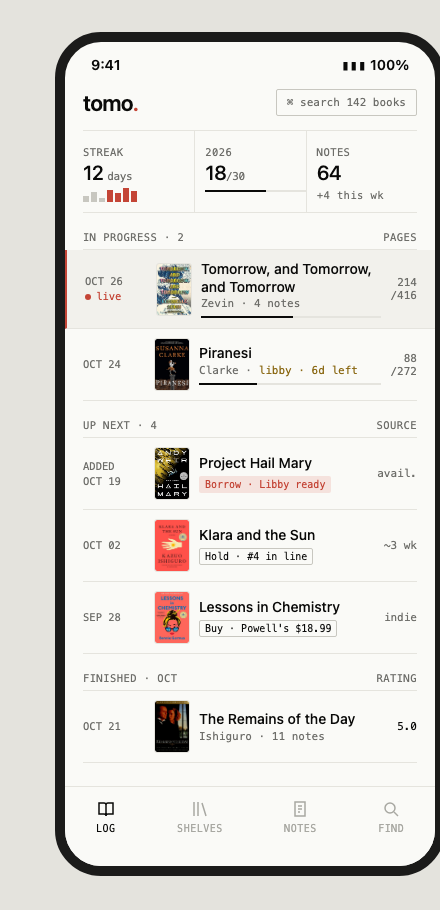
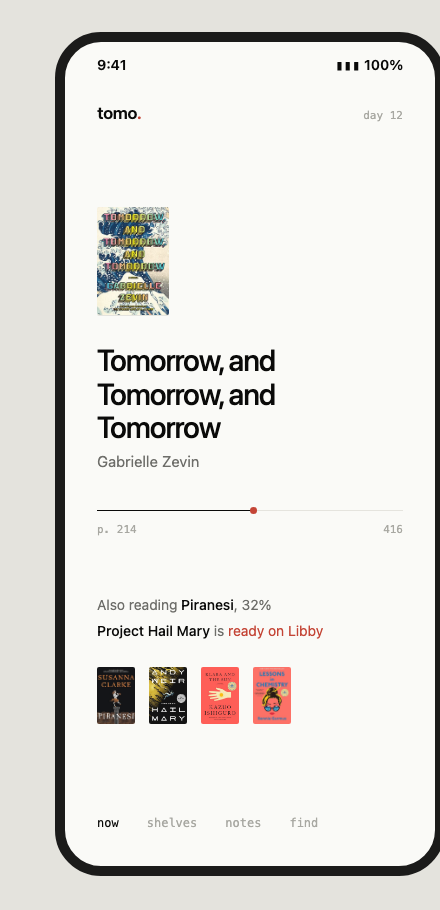
Make mockup 2 more minimal and distinct from 1
Single-focus layout: one current book in large type, a hairline progress
line, one sentence for the rest, text-only tabs. Drops the stats strip,
section headers, ledger rows and tags it shared with mockup 1.

diff --git a/.codeyam/design/project_mockups/02-minimalistic-mockup.html b/.codeyam/design/project_mockups/02-minimalistic-mockup.html
@@ -1,44 +1,32 @@
 <!doctype html>
 <html lang="en"><head><meta charset="utf-8"><meta name="viewport" content="width=device-width,initial-scale=1">
-<title>Tomo · Logbook direction</title>
+<title>Tomo · Quiet direction</title>
 <style>
-:root{--bg:#FAFAF7;--bg-elev:#F2F1EC;--bg-sunk:#EEEDE7;--ink:#0A0A09;--muted:#6E6E6A;--faint:#A8A8A2;--line:#E5E4DE;--line-strong:#C8C7C0;--accent:#C44536;--accent-soft:#F5E2DD;--go:#4A6B3A;--wait:#8B6914;
+:root{--bg:#FAFAF7;--bg-elev:#F2F1EC;--ink:#0A0A09;--muted:#6E6E6A;--faint:#A8A8A2;--line:#E5E4DE;--accent:#C44536;
 --sans:'Inter',-apple-system,system-ui,sans-serif;--mono:'JetBrains Mono',ui-monospace,'SF Mono',Menlo,monospace}
 *{box-sizing:border-box;margin:0;padding:0}
 body{background:#e4e3dd;font-family:var(--sans);color:var(--ink);display:flex;justify-content:center;padding:32px 16px}
 .phone{width:390px;height:844px;background:var(--bg);border-radius:46px;border:10px solid #1b1b1a;overflow:hidden;position:relative}
-.screen{padding:0 18px}
-.status{display:flex;justify-content:space-between;font:600 14px var(--sans);padding:14px 8px 8px}
-.top{display:flex;justify-content:space-between;align-items:center;padding:8px 0 14px}
-.top h1{font:600 22px var(--sans);letter-spacing:-.02em}
-.mono{font-family:var(--mono)}
-.lbl{font:400 10.5px var(--mono);color:var(--muted);letter-spacing:.04em;text-transform:uppercase}
-.search{border:1px solid var(--line-strong);border-radius:2px;padding:6px 10px;font:400 11px var(--mono);color:var(--muted)}
-.stats{display:grid;grid-template-columns:repeat(3,1fr);border-top:1px solid var(--line);border-bottom:1px solid var(--line)}
-.stats>div{padding:10px 0 10px 10px;border-left:1px solid var(--line)}
-.stats>div:first-child{border-left:0;padding-left:0}
-.stats b{display:block;font:500 20px var(--sans);letter-spacing:-.02em;margin-top:2px}
-.stats b span{font:400 11px var(--mono);color:var(--muted)}
-.spark{display:flex;gap:2px;align-items:flex-end;height:14px;margin-top:4px}
-.spark i{width:6px;background:var(--line-strong)}
-.spark i.on{background:var(--accent)}
-.sec{display:flex;justify-content:space-between;padding:18px 0 6px;border-bottom:1px solid var(--line)}
-.r{display:grid;grid-template-columns:62px 34px 1fr auto;gap:10px;align-items:center;padding:10px 0;border-bottom:1px solid var(--line)}
-.r .d{font:400 10.5px/1.4 var(--mono);color:var(--muted)}
-.c{width:34px;height:51px;border-radius:2px;outline:1px solid var(--line)}
-.r .t{font:500 14px/1.25 var(--sans)}
-.r .s{font:400 11px var(--mono);color:var(--muted);margin-top:2px}
-.r .v{font:400 11px var(--mono);text-align:right;color:var(--muted)}
-.live{display:inline-flex;align-items:center;gap:5px;color:var(--accent)}
-.live:before{content:'';width:6px;height:6px;border-radius:50%;background:var(--accent)}
-.cur{background:var(--bg-elev);margin:0 -18px;padding-left:18px;padding-right:18px;border-left:2px solid var(--accent)}
-.bar{height:2px;background:var(--line);margin-top:6px}.bar i{display:block;height:2px;background:var(--ink)}
-.tag{display:inline-block;font:400 10px var(--mono);border:1px solid var(--line-strong);border-radius:2px;padding:2px 5px;margin-top:4px;color:var(--ink)}
-.tag.acc{background:var(--accent-soft);border-color:transparent;color:var(--accent)}
-.go{color:var(--go)}.wait{color:var(--wait)}
-.tabs{position:absolute;bottom:0;left:0;right:0;height:80px;border-top:1px solid var(--line);background:var(--bg);display:flex;justify-content:space-around;padding-top:12px}
-.tabs span{font:400 10px var(--mono);color:var(--faint);text-transform:uppercase;letter-spacing:.05em;text-align:center}
-.tabs svg{display:block;margin:0 auto 4px}
+.screen{padding:0 32px}
+.status{display:flex;justify-content:space-between;font:600 14px var(--sans);padding:14px 0 0}
+.top{display:flex;justify-content:space-between;align-items:baseline;padding:30px 0 0}
+.mark{font:600 17px var(--sans);letter-spacing:-.02em}
+.mark span{color:var(--accent)}
+.mono{font:400 11px var(--mono);color:var(--faint)}
+.focus{margin-top:84px}
+.cover{width:72px;height:108px;border-radius:2px;box-shadow:0 1px 0 var(--line)}
+.focus h1{font:500 30px/1.12 var(--sans);letter-spacing:-.035em;margin-top:28px}
+.focus .by{font:400 15px var(--sans);color:var(--muted);margin-top:8px}
+.line{position:relative;height:1px;background:var(--line);margin-top:40px}
+.line i{position:absolute;left:0;top:0;height:1px;width:51%;background:var(--ink)}
+.line b{position:absolute;left:51%;top:-3px;width:7px;height:7px;border-radius:50%;background:var(--accent);margin-left:-3px}
+.pages{display:flex;justify-content:space-between;margin-top:12px}
+.also{margin-top:56px;font:400 14px/1.9 var(--sans);color:var(--muted)}
+.also b{font-weight:500;color:var(--ink)}
+.also em{font-style:normal;color:var(--accent)}
+.next{display:flex;gap:14px;margin-top:22px;align-items:flex-end}
+.next div{width:38px;height:57px;border-radius:2px;opacity:.92}
+.tabs{position:absolute;left:32px;right:32px;bottom:36px;display:flex;gap:28px;font:400 12px var(--mono);color:var(--faint)}
 .tabs .on{color:var(--ink)}
[2 lines of base64/hex data omitted]
@@ -52,40 +40,20 @@ body{background:#e4e3dd;font-family:var(--sans);color:var(--ink);display:flex;ju
[1 lines of base64/hex data omitted]
 </style></head><body>
 <div class="phone"><div class="screen">
-<div class="status"><span>9:41</span><span>▮▮▮ 100%</span></div>
-<div class="top"><h1>tomo<span style="color:var(--accent)">.</span></h1><span class="search">⌘ search 142 books</span></div>
+  <div class="status"><span>9:41</span><span>▮▮▮ 100%</span></div>
+  <div class="top"><span class="mark">tomo<span>.</span></span><span class="mono">day 12</span></div>
 
-<div class="stats">
-  <div><span class="lbl">Streak</span><b>12 <span>days</span></b><div class="spark"><i style="height:6px"></i><i style="height:10px"></i><i style="height:4px"></i><i class="on" style="height:12px"></i><i class="on" style="height:9px"></i><i class="on" style="height:14px"></i><i class="on" style="height:11px"></i></div></div>
-  <div><span class="lbl">2026</span><b>18<span>/30</span></b><div class="bar"><i style="width:60%"></i></div></div>
-  <div><span class="lbl">Notes</span><b>64</b><span class="lbl" style="text-transform:none">+4 this wk</span></div>
-</div>
+  <div class="focus">
+    <div class="cover cv-tomorrow"></div>
+    <h1>Tomorrow, and Tomorrow, and Tomorrow</h1>
+    <p class="by">Gabrielle Zevin</p>
+    <div class="line"><i></i><b></b></div>
+    <div class="pages"><span class="mono">p. 214</span><span class="mono">416</span></div>
+  </div>
 
-<div class="sec"><span class="lbl">In progress · 2</span><span class="lbl">pages</span></div>
-<div class="r cur">
-  <span class="d">OCT 26<br><span class="live">live</span></span><div class="c cv-tomorrow"></div>
-  <div><p class="t">Tomorrow, and Tomorrow, and Tomorrow</p><p class="s">Zevin · 4 notes</p><div class="bar"><i style="width:51%"></i></div></div>
-  <span class="v">214<br>/416</span>
+  <p class="also">Also reading <b>Piranesi</b>, 32%<br><b>Project Hail Mary</b> is <em>ready on Libby</em></p>
+  <div class="next"><div class="cv-piranesi"></div><div class="cv-hailmary"></div><div class="cv-klara"></div><div class="cv-chemistry"></div></div>
 </div>
-<div class="r">
-  <span class="d">OCT 24</span><div class="c cv-piranesi"></div>
-  <div><p class="t">Piranesi</p><p class="s">Clarke · <span class="wait">libby · 6d left</span></p><div class="bar"><i style="width:32%"></i></div></div>
-  <span class="v">88<br>/272</span>
-</div>
-
-<div class="sec"><span class="lbl">Up next · 4</span><span class="lbl">source</span></div>
-<div class="r"><span class="d">ADDED<br>OCT 19</span><div class="c cv-hailmary"></div><div><p class="t">Project Hail Mary</p><span class="tag acc">Borrow · Libby ready</span></div><span class="v go">avail.</span></div>
-<div class="r"><span class="d">OCT 02</span><div class="c cv-klara"></div><div><p class="t">Klara and the Sun</p><span class="tag">Hold · #4 in line</span></div><span class="v wait">~3 wk</span></div>
-<div class="r"><span class="d">SEP 28</span><div class="c cv-chemistry"></div><div><p class="t">Lessons in Chemistry</p><span class="tag">Buy · Powell's $18.99</span></div><span class="v">indie</span></div>
-
-<div class="sec"><span class="lbl">Finished · Oct</span><span class="lbl">rating</span></div>
-<div class="r"><span class="d">OCT 21</span><div class="c cv-remains"></div><div><p class="t">The Remains of the Day</p><p class="s">Ishiguro · 11 notes</p></div><span class="v" style="color:var(--ink)">5.0</span></div>
-</div>
-<nav class="tabs">
-  <span class="on"><svg width="20" height="20" viewBox="0 0 20 20" fill="none" stroke="currentColor" stroke-width="1.5"><path d="M3 4h5a2 2 0 0 1 2 2v11a2 2 0 0 0-2-2H3zM17 4h-5a2 2 0 0 0-2 2v11a2 2 0 0 1 2-2h5z"/></svg>Log</span>
-  <span><svg width="20" height="20" viewBox="0 0 20 20" fill="none" stroke="currentColor" stroke-width="1.5"><path d="M4 3v14M8 3v14M12 4l4 13"/></svg>Shelves</span>
-  <span><svg width="20" height="20" viewBox="0 0 20 20" fill="none" stroke="currentColor" stroke-width="1.5"><path d="M5 3h10v14H5zM8 7h4M8 10h4M8 13h2"/></svg>Notes</span>
-  <span><svg width="20" height="20" viewBox="0 0 20 20" fill="none" stroke="currentColor" stroke-width="1.5"><circle cx="9" cy="9" r="5"/><path d="M13 13l4 4"/></svg>Find</span>
-</nav>
+<nav class="tabs"><span class="on">now</span><span>shelves</span><span>notes</span><span>find</span></nav>
 </div>
 </body></html>
